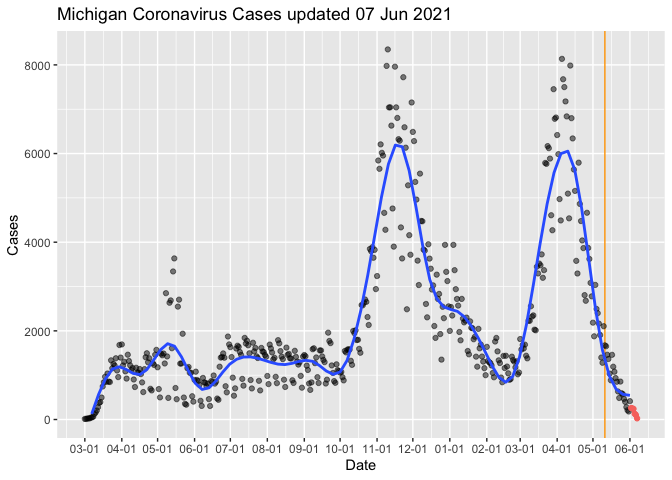
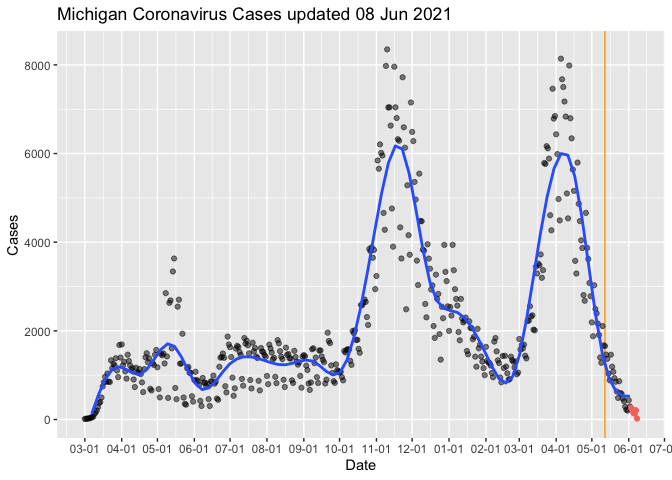
Jun-09 2021 09:25 update

diff --git a/MiCorona.md b/MiCorona.md
@@ -1,7 +1,7 @@
 Michigan COVID Data
 ================
 Adam D. DenHaan
-Jun 08, 2021
+Jun 09, 2021
 
 Get link for data:
 
@@ -47,17 +47,17 @@ mi_data.head()
     ## 3  Alcona 2020-03-04   Confirmed    0.0     0.0               0.0   
     ## 4  Alcona 2020-03-05   Confirmed    0.0     0.0               0.0   
     ## 
-    ##    Deaths.Cumulative                    Updated  
-    ## 0                0.0 2021-06-07 13:29:20.317600  
-    ## 1                0.0 2021-06-07 13:29:20.317600  
-    ## 2                0.0 2021-06-07 13:29:20.317600  
-    ## 3                0.0 2021-06-07 13:29:20.317600  
-    ## 4                0.0 2021-06-07 13:29:20.317600
+    ##    Deaths.Cumulative                 Updated  
+    ## 0                0.0 2021-06-08 13:29:23.740  
+    ## 1                0.0 2021-06-08 13:29:23.740  
+    ## 2                0.0 2021-06-08 13:29:23.740  
+    ## 3                0.0 2021-06-08 13:29:23.740  
+    ## 4                0.0 2021-06-08 13:29:23.740
 
 ``` python
 max_date = max(mi_data["Updated"])
 
-agg_data = mi_data.groupby(["Date"],  as_index=False).sum()
+agg_data = mi_data.groupby(["Date"], as_index=False).sum()
 
 diff = datetime.now() - timedelta(7)
   
